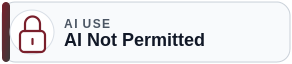
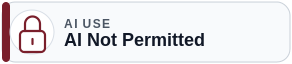
Use solid badge accent colors

Changed region(s): [[0.0, 0.0625, 0.0616, 0.9688]]

diff --git a/README.md b/README.md
@@ -10,9 +10,9 @@ These badges provide a consistent visual language for marking AI-use expectation
 
 | Badge | Meaning | Visual accent |
 |---|---|---|
-| **AI Not Permitted** | Students must complete the marked work without AI assistance. | restrained maroon/charcoal with lock icon |
-| **AI Debugging Only** | Students may use AI to understand errors, diagnose problems, and ask guiding questions, but not to generate a full solution. | WT-style blue/gold with wrench icon |
-| **AI Permitted with Disclosure** | Students may use AI as a tutor, assistant, brainstorming partner, or reviewer, but must disclose its use and understand submitted work. | restrained green/maroon with disclosure-note icon |
+| **AI Not Permitted** | Students must complete the marked work without AI assistance. | solid restrained maroon/red with lock icon |
+| **AI Debugging Only** | Students may use AI to understand errors, diagnose problems, and ask guiding questions, but not to generate a full solution. | solid WT-style blue with wrench icon |
+| **AI Permitted with Disclosure** | Students may use AI as a tutor, assistant, brainstorming partner, or reviewer, but must disclose its use and understand submitted work. | solid restrained green with disclosure-note icon |
 
 Core principle:
 

diff --git a/docs/design-notes.md b/docs/design-notes.md
@@ -4,7 +4,7 @@
 
 The badges are compact horizontal SVGs with:
 
-- a restrained accent bar;
+- a solid restrained accent bar;
 - a simple supplementary icon;
 - a small `AI USE` eyebrow label;
 - the exact policy label in large text;
@@ -16,9 +16,9 @@ The goal is a professional university-course look rather than a playful sticker 
 
 The colors are WTAMU-adjacent accents rather than large saturated color fields:
 
-- muted maroon/charcoal for **AI Not Permitted**;
-- WT-style blue with a restrained gold secondary accent for **AI Debugging Only**;
-- restrained green with maroon secondary accent for **AI Permitted with Disclosure**.
+- muted maroon/red for **AI Not Permitted**;
+- WT-style blue for **AI Debugging Only**;
+- restrained green for **AI Permitted with Disclosure**.
 
 The badges avoid heavy maroon saturation and should sit cleanly in Canvas pages, PreTeXt notes, notebooks, and handouts.
 
